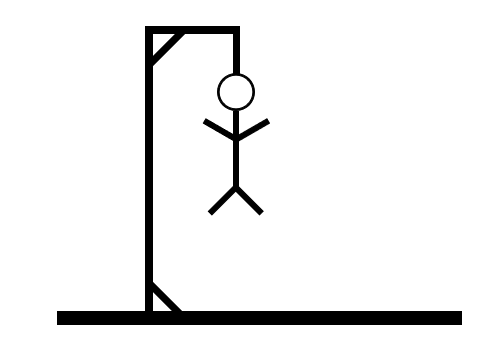
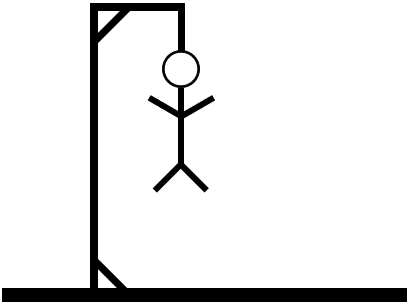
cropping images and updating some game logic for reset button

Changed region(s): [[0.0, 0.0, 0.9951, 1.0]]

diff --git a/lib/script.js b/lib/script.js
@@ -58,6 +58,8 @@ const letters = [
 function createBoard() {
 	// clear previous board and saved word
 	clearPreviousBoard(letterSpaces);
+	// reset image to blank board
+	manImage.setAttribute('src', `images/hangman7.png`);
 	// reset the incorrectGuess to 6
 	incorrectGuess = 6;
 	// create guesses remaining
@@ -93,6 +95,7 @@ function resetGame() {
 	clearPreviousBoard(guessRemaining);
 	form.classList.remove('hidden');
 	gameoverAlert.classList.add('hidden');
+	playerTurn.innerText = 'Player One Enter Word';
 }
 
 nextPlayerButton.addEventListener('click', nextPlayer);
@@ -101,6 +104,7 @@ function nextPlayer() {
 	createBoard();
 	clearPreviousBoard(blankSpaces);
 	clearPreviousBoard(guessRemaining);
+
 	// increment count turns
 	countTurns += 1;
 	if (form.classList.contains('hidden')) {
